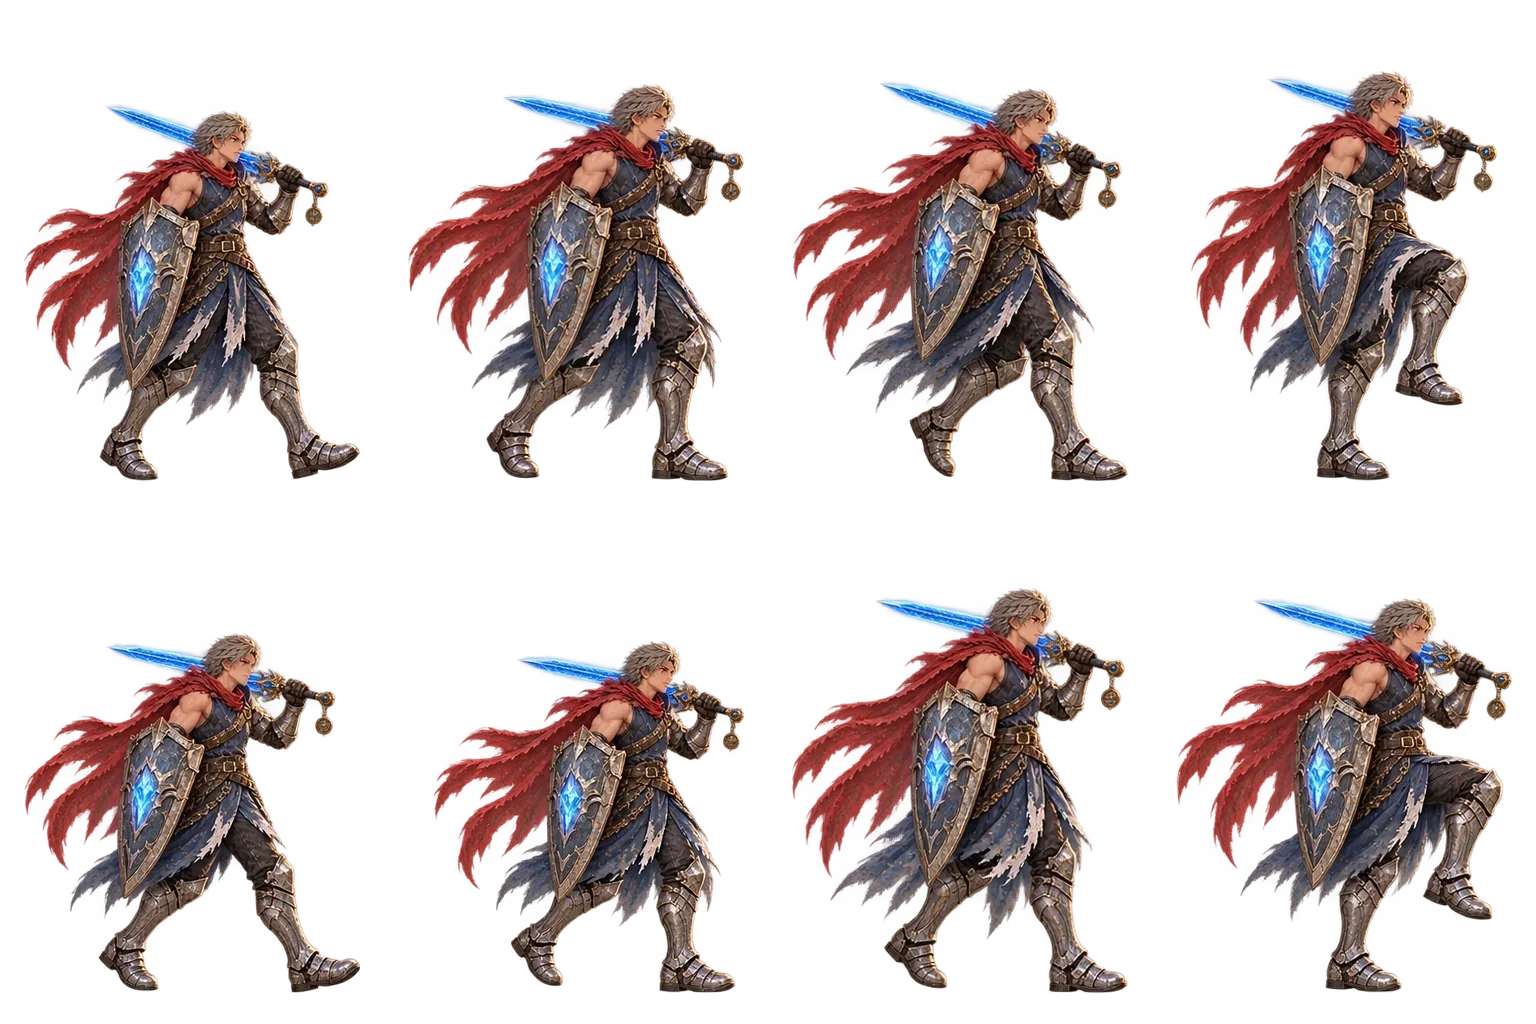
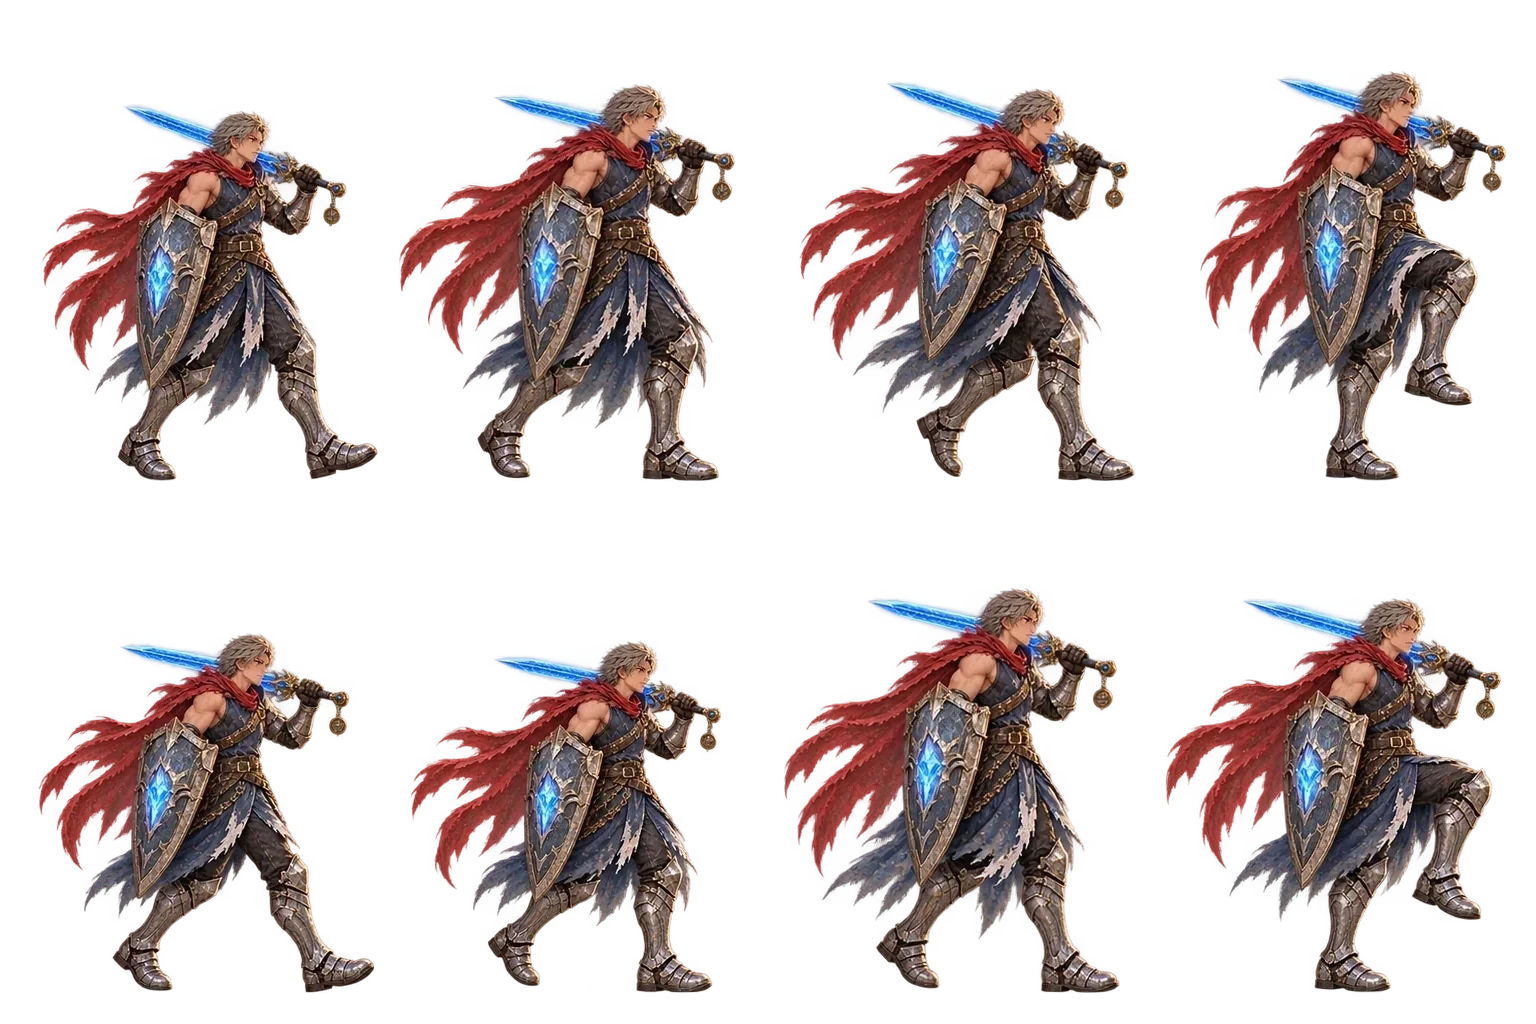
Steady the walk cycles, show Knox in his cage, fit the sign's words
Checking art wave 03 in the game:
- Walk cycles lurched: each frame put the upper body in a different place,
  up to 45 px apart. tools/art/align_walks.py lines the frames up sideways
  (phase correlation on the top half of the figure). Feet stay on the
  ground line. It runs once per sheet.
- Knox vanished behind the painted cage's thick glowing bars. A solid copy
  of the cage now stands behind him, a see-through one sits in front, and a
  soft light inside picks out his robe. He's a little bigger and stands on
  the cage floor.
- The signpost's words ran off the painted boards into the post. Each word
  is now an SVG box fitted to its board's clear wood and tilt
  (SIGN_BOARDS), and the sign is a little bigger so it reads.
- ?explore&debug&scene=temple starts in a scene, for art checks.

Claude-Session: https://claude.ai/code/session_016gaJMXHjTjey38oecPUwF2

diff --git a/src/ui/explore.js b/src/ui/explore.js
@@ -85,6 +85,14 @@ const firstArt = (ids) => ids.find((id) => assetInfo(id)?.base?.src) || ids[ids.
 /** The adventure: runs scene after scene until he quits to the title. */
 export async function runAdventure(app, { mastery, rng }) {
   ensureWorld();
+  // For art checks: ?explore&debug&scene=temple starts there, skipping the opening
+  const jump = DEBUG && PARAMS.get("scene");
+  if (jump && SCENES[jump]) {
+    update((s) => {
+      Object.assign(s.world, { started: true, scene: jump, pos: [...SCENES[jump].start] });
+      s.world.flags.woke = true;
+    });
+  }
   if (!world().started) {
     await prologue(app);
     update((s) => (s.world.started = true));
@@ -98,6 +106,24 @@ export async function runAdventure(app, { mastery, rng }) {
       return;
     }
   }
+}
+
+// ---------------------------------------------------------------- the signpost's words
+
+// The clear wood on each painted board, in pixels of prop_signpost (686x1024),
+// and the board's tilt. A word is squeezed or stretched to fill its board.
+const SIGN_BOARDS = {
+  left: { x: 90, y: 207, w: 256, h: 66, rot: -4 },
+  right: { x: 335, y: 417, w: 250, h: 70, rot: -6 },
+};
+
+function signWord(side, word, painted) {
+  if (!painted) return h(`div.sign-word.${side}`, {}, word); // the stand-in sign has room to spare
+  const b = SIGN_BOARDS[side];
+  const pct = (v, of) => `${(v / of) * 100}%`;
+  const el = h("div.sign-word.board", { style: { left: pct(b.x, 686), top: pct(b.y, 1024), width: pct(b.w, 686), height: pct(b.h, 1024), transform: `rotate(${b.rot}deg)` } });
+  el.innerHTML = `<svg viewBox="0 0 ${b.w} ${b.h}" preserveAspectRatio="none"><text x="${b.w / 2}" y="${b.h * 0.8}" text-anchor="middle" font-size="${b.h * 0.86}" textLength="${b.w - 16}" lengthAdjust="spacingAndGlyphs">${word}</text></svg>`;
+  return el;
 }
 
 // ---------------------------------------------------------------- the opening
@@ -252,11 +278,23 @@ async function runScene(app, { mastery, rng }) {
     if (e.hot.prop === "signpost") {
       // the words on the boards are drawn by the game (painted boards are blank)
       const painted = isPainted("signpost");
-      kids.push(h(`div.sign-word.left${painted ? ".painted" : ""}`, {}, st.fixed ? "TEMPLE" : "PELMET"), h(`div.sign-word.right${painted ? ".painted" : ""}`, {}, st.fixed ? "CANYON" : "NYCOAN"));
+      kids.push(signWord("left", st.fixed ? "TEMPLE" : "PELMET", painted), signWord("right", st.fixed ? "CANYON" : "NYCOAN", painted));
     }
     if (e.hot.prop === "word_cage") {
       e.el.classList.toggle("open", st.bars >= 3);
-      if (isPainted("word_cage")) e.el.style.opacity = String(1 - 0.22 * Math.min(3, st.bars || 0));
+      const painted = isPainted("word_cage", st);
+      const fade = 1 - 0.22 * Math.min(3, st.bars || 0);
+      // Knox is tiny and the painted bars are thick: a solid copy of the cage
+      // stands behind him and a see-through one in front, so he shows between the bars
+      if (painted && !e.back) {
+        e.back = h("div.prop.cage-back");
+        stage.world.append(e.back);
+      }
+      if (e.back) {
+        e.back.replaceChildren(...(painted ? [propArt(e.hot.prop, st)] : []));
+        e.back.style.opacity = String(fade);
+      }
+      e.el.style.opacity = painted ? String(fade * 0.45) : "";
     }
     e.el.replaceChildren(...kids);
   }
@@ -285,6 +323,7 @@ async function runScene(app, { mastery, rng }) {
 
   function removeEnt(e) {
     e.el.remove();
+    e.back?.remove();
     e.arrow?.remove();
     e.sparkle?.remove();
     ents.splice(ents.indexOf(e), 1);
@@ -358,7 +397,8 @@ async function runScene(app, { mastery, rng }) {
       e.el.style.width = `${wpx}px`;
       e.el.style.height = `${hpx}px`;
       e.el.style.zIndex = e.flat ? "1" : e.kind === "kit" ? String(Math.round(e.y) - 2) : String(Math.round(e.y + (e.lift ? 1 : 0)));
-      if (e.kind === "prop" && e.hot.prop === "signpost") e.el.style.fontSize = `${Math.max(9, wpx * 0.115)}px`;
+      if (e.back) Object.assign(e.back.style, { left: e.el.style.left, top: e.el.style.top, width: e.el.style.width, height: e.el.style.height, zIndex: String(Math.round(e.y) - 8) });
+      if (e.kind === "prop" && e.hot.prop === "signpost" && !isPainted("signpost")) e.el.style.fontSize = `${Math.max(9, wpx * 0.115)}px`;
       if (e.sparkle) {
         e.sparkle.style.left = `${left}px`;
         e.sparkle.style.top = `${top - hpx * 1.02}px`;

diff --git a/src/world/data.js b/src/world/data.js
@@ -68,7 +68,7 @@ export const SCENES = {
     hotspots: [
       { id: "wreck", name: "old shipwreck", verb: "Look at", area: [110, 40, 1300, 345], x: 700, y: 345, approach: [0, 130] },
       { id: "monkey", name: "three-eyed monkey", verb: "Look at", sprite: "monkey", x: 1085, y: 446, size: [96, 110], approach: [-150, 40] },
-      { id: "sign", name: "signpost", verb: "Read", prop: "signpost", x: 640, y: 474, size: [150, 210], approach: [0, 70] },
+      { id: "sign", name: "signpost", verb: "Read", prop: "signpost", x: 640, y: 474, size: [186, 260], approach: [0, 70] },
       { id: "pool", name: "tide pool", verb: "Look in", prop: "tide_pool", x: 930, y: 628, size: [270, 84], flat: true, approach: [-160, -8] },
       { id: "chest", name: "old chest", verb: "Open", prop: "chest", x: 160, y: 560, size: [140, 110], approach: [120, 24] },
       { id: "bottle", name: "bottle", verb: "Pick up", prop: "bottle", x: 470, y: 656, size: [46, 64], approach: [76, -12] },
@@ -97,7 +97,7 @@ export const SCENES = {
     start: [1190, 590],
     hotspots: [
       { id: "glyphs", name: "temple of glowing glyphs", verb: "Read", area: [-220, 0, 470, 400], x: 120, y: 400, approach: [0, 66] },
-      { id: "spellwright", name: "Knox the Spellwright", verb: "Talk to", sprite: "spellwright", x: 760, y: 470, size: [150, 196], approach: [170, 70] },
+      { id: "spellwright", name: "Knox the Spellwright", verb: "Talk to", sprite: "spellwright", x: 760, y: 470, size: [190, 248], lift: 22, approach: [170, 70] },
       { id: "cage", name: "cage of scrambled words", verb: "Look at", prop: "word_cage", x: 760, y: 474, size: [210, 270], approach: [170, 66] },
       { id: "frog", name: "stone frog", verb: "Look at", prop: "stone_frog", x: 1120, y: 600, size: [140, 130], approach: [-130, 14] },
       { id: "monkey", name: "three-eyed monkey", verb: "Look at", sprite: "monkey", x: 978, y: 409, size: [96, 110], lift: 186, approach: [-40, 80] },

diff --git a/styles/world.css b/styles/world.css
@@ -98,6 +98,21 @@
   filter: drop-shadow(0 8px 10px rgba(0, 0, 0, 0.35));
 }
 
+.prop.cage-back {
+  pointer-events: none;
+}
+
+/* a soft light inside the cage, behind Knox, so his dark robe stands out */
+.prop.cage-back::after {
+  content: "";
+  position: absolute;
+  left: 18%;
+  right: 18%;
+  top: 30%;
+  bottom: 6%;
+  background: radial-gradient(ellipse at 50% 62%, rgba(236, 214, 255, 0.6), rgba(190, 140, 255, 0.25) 45%, rgba(170, 110, 255, 0) 72%);
+}
+
 .prop > .prop-img,
 .prop > .prop-svg {
   position: absolute;
@@ -146,6 +161,28 @@
   left: 60%;
   top: 46%;
   transform: translate(-50%, -50%) rotate(1deg);
+}
+
+/* on the painted boards: an SVG box fitted to the clear wood (explore.js, SIGN_BOARDS) */
+.sign-word.board {
+  transform-origin: 50% 50%;
+  text-shadow: none;
+}
+
+.sign-word.board svg {
+  display: block;
+  width: 100%;
+  height: 100%;
+  overflow: visible;
+}
+
+.sign-word.board text {
+  font-family: var(--title);
+  font-weight: 900;
+  fill: #3a210c;
+  paint-order: stroke;
+  stroke: rgba(255, 232, 190, 0.35);
+  stroke-width: 3px;
 }
 
 .hot-area,

diff --git a/tools/art/align_walks.py b/tools/art/align_walks.py
@@ -1,0 +1,94 @@
+"""Steady the walk cycles: line every frame's upper body up sideways.
+
+Art wave 03's walk cycles were painted frame by frame, and the upper body
+lands in a different place in each one, up to 45 px apart. Played at 10 fps,
+the hero lurches back and forth as he walks. This pass measures where each
+frame's head and shoulders sit (phase correlation on the top half of the
+figure), then slides each frame sideways so they all sit at their average
+place. Nothing moves up or down, so the feet stay on the ground line.
+
+    python3 tools/art/align_walks.py            align the walk sheets the manifest lists (once each)
+    python3 tools/art/align_walks.py --check    report the offsets only
+
+The manifest records "aligned" on each sheet it fixed, so running it again
+does nothing. Needs Pillow and numpy.
+"""
+
+import json
+import sys
+from pathlib import Path
+
+import numpy as np
+from PIL import Image
+
+ROOT = Path(__file__).resolve().parents[2]
+ASSETS = ROOT / "public" / "assets"
+MANIFEST = ASSETS / "manifest.json"
+TAG = "tools/art/align_walks.py"
+MIN_FIX = 6  # px: leave a sheet alone when every frame is already this close
+
+
+def cells(img, walk):
+    cw, ch = walk["cell"]
+    cols = walk.get("cols", 4)
+    return [(i, ((i % cols) * cw, (i // cols) * ch, (i % cols + 1) * cw, (i // cols + 1) * ch)) for i in range(walk.get("frames", 8))]
+
+
+def upper_body(cell):
+    """The top half of the figure as a brightness image, centered on zero."""
+    a = cell[:, :, 3] / 255.0
+    lum = (cell[:, :, :3] @ np.array([0.3, 0.59, 0.11])) / 255.0
+    rows = np.nonzero(a.max(axis=1) > 0.5)[0]
+    top, bottom = rows.min(), rows.max()
+    g = lum * a
+    g[int(top + 0.5 * (bottom - top)) :] = 0
+    return g - g[g > 0].mean() * (g > 0)
+
+
+def offset_x(ref, img):
+    """How far (px) `img` must slide sideways to sit on `ref`, by phase correlation."""
+    r = np.fft.fft2(ref) * np.conj(np.fft.fft2(img))
+    r = np.fft.ifft2(r / (np.abs(r) + 1e-9)).real
+    _, dx = np.unravel_index(np.argmax(r), r.shape)
+    return dx - ref.shape[1] if dx > ref.shape[1] // 2 else dx
+
+
+def main():
+    check = "--check" in sys.argv
+    manifest = json.loads(MANIFEST.read_text(encoding="utf8"))
+    changed = False
+    for key, entry in manifest["assets"].items():
+        walk = entry.get("walk") if isinstance(entry, dict) else None
+        if not walk or not walk.get("src"):
+            continue
+        if walk.get("aligned") == TAG:
+            print(f"{key}: already aligned")
+            continue
+        path = ASSETS / walk["src"]
+        img = Image.open(path).convert("RGBA")
+        arr = np.asarray(img).astype(np.float64)
+        boxes = cells(img, walk)
+        bodies = [upper_body(arr[b[1] : b[3], b[0] : b[2]]) for _, b in boxes]
+        dx = np.array([offset_x(bodies[0], g) for g in bodies], dtype=np.float64)
+        shifts = np.round(dx - dx.mean()).astype(int)
+        print(f"{key}: frame offsets {shifts.tolist()}")
+        if np.abs(shifts).max() < MIN_FIX or check:
+            continue
+        out = Image.new("RGBA", img.size, (0, 0, 0, 0))
+        for (_, box), s in zip(boxes, shifts):
+            cell = img.crop(box)
+            moved = Image.new("RGBA", cell.size, (0, 0, 0, 0))
+            moved.paste(cell, (int(s), 0))
+            lost = np.asarray(cell)[:, : max(0, -s), 3].max(initial=0) if s < 0 else np.asarray(cell)[:, cell.width - s :, 3].max(initial=0)
+            if lost > 24:
+                print(f"  ! frame at {box[:2]} loses a few pixels at its edge")
+            out.paste(moved, box[:2])
+        out.save(path, "WEBP", quality=90, method=6, exact=True)
+        walk["aligned"] = TAG
+        changed = True
+    if changed:
+        MANIFEST.write_text(json.dumps(manifest, indent=2) + "\n", encoding="utf8")
+
+
+if __name__ == "__main__":
+    main()

diff --git a/docs/handoff.md b/docs/handoff.md
@@ -12,7 +12,11 @@ For whichever Claude session picks this up next. Read `CLAUDE.md` first.
   - **The Titan summon is a cinematic.** It's timed to the summon music's cues, and Enter/Space/Esc skips it.
   - **Wave 02's interface art:** command icons, the window frame, the cursor, the logo and turn-order faces (`src/ui/icons.js`).
   - **Earlier:** the pause menu, the play report (it includes adventure progress), the perspective guides, and the ElevenLabs sound pack (step 4 below).
-  - **Art wave 03 is in the game** (`art/waves/wave-03-exploration.md`): the island's objects, walk cycles, Captain Jumble, the monkey's poses, icons and story cards. Codex flagged 10 drafts in `art/review/wave-03-qa.json`.
+  - **Art wave 03 is in the game** (`art/waves/wave-03-exploration.md`): the island's objects, walk cycles, Captain Jumble, the monkey's poses, icons and story cards. Codex flagged 10 drafts in `art/review/wave-03-qa.json`. Checked in the game:
+    - Walk cycles: `tools/art/align_walks.py` lined up each frame's upper body sideways (it lurched up to 45 px). The knight still bobs a lot in frames 4 and 5, and swords and capes change shape between frames; only a repaint fixes that.
+    - The signpost's words are fitted to the painted boards (`SIGN_BOARDS` in `explore.js`).
+    - Knox shows inside the cage: a solid copy of the cage stands behind him and a see-through one in front.
+    - Story cards, Jumble's portraits, item and HUD icons look right. Use `?explore&debug&scene=temple` (or `cove`, `canyon`) to jump straight to a scene.
   - **Every fixed line is recorded**, story included: the narrator, Captain Jumble (Callum, a standard voice; swap it under `voices.jumble` in `tools/audio/sounds.json`), Kit's built-in hints and all 315 spelling dictations. Live voices are left for Claude's words, school-list words and hints with numbers in them.
   - **The foreground layers are repaired** (`tools/art/fix_fg.py`). Wave 02 cut every post, pillar and canopy with one feathered rectangle, so they dissolved in mid-air. They now run off the screen's edges, and `scene.js` never lets their edges slide into view.
 

diff --git a/CLAUDE.md b/CLAUDE.md
@@ -9,7 +9,7 @@ A Final Fantasy X–style learning RPG with Monkey Island–style humor, for one
 - `npm test`: unit tests (`node --test`). Run before every commit.
 - `npm run build`: bundle to `dist/` (esbuild). `npm run dev` serves it at http://localhost:8000 with rebuilds.
 - `?battle=t1` … `t4` or `?battle=free` jumps straight into a fight, which is quickest for checking UI or new art.
-- `?explore` jumps into the adventure. Add `&debug` to expose `window.__world`, `window.__puzzle`, `window.__battle` and `window.__stage` (the camera) for automated playtests, and `&calm` to turn ambushes off.
+- `?explore` jumps into the adventure. Add `&debug` to expose `window.__world`, `window.__puzzle`, `window.__battle` and `window.__stage` (the camera) for automated playtests, `&calm` to turn ambushes off, and `&scene=temple` to start in a scene.
 
 ## Layout
 
